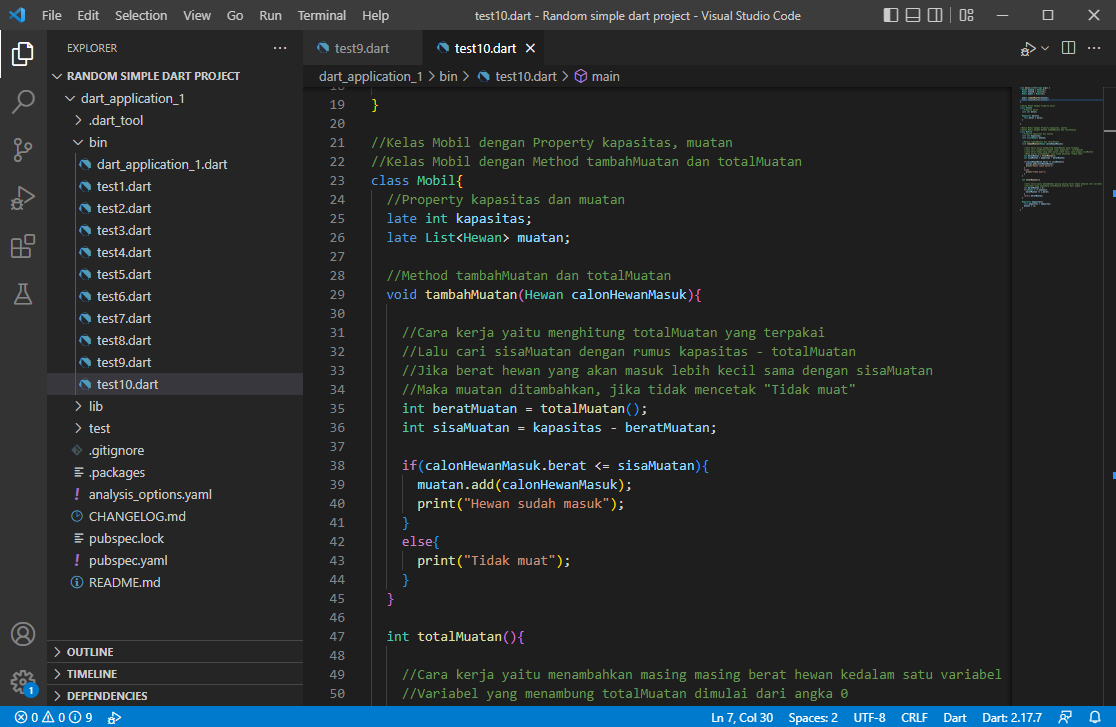
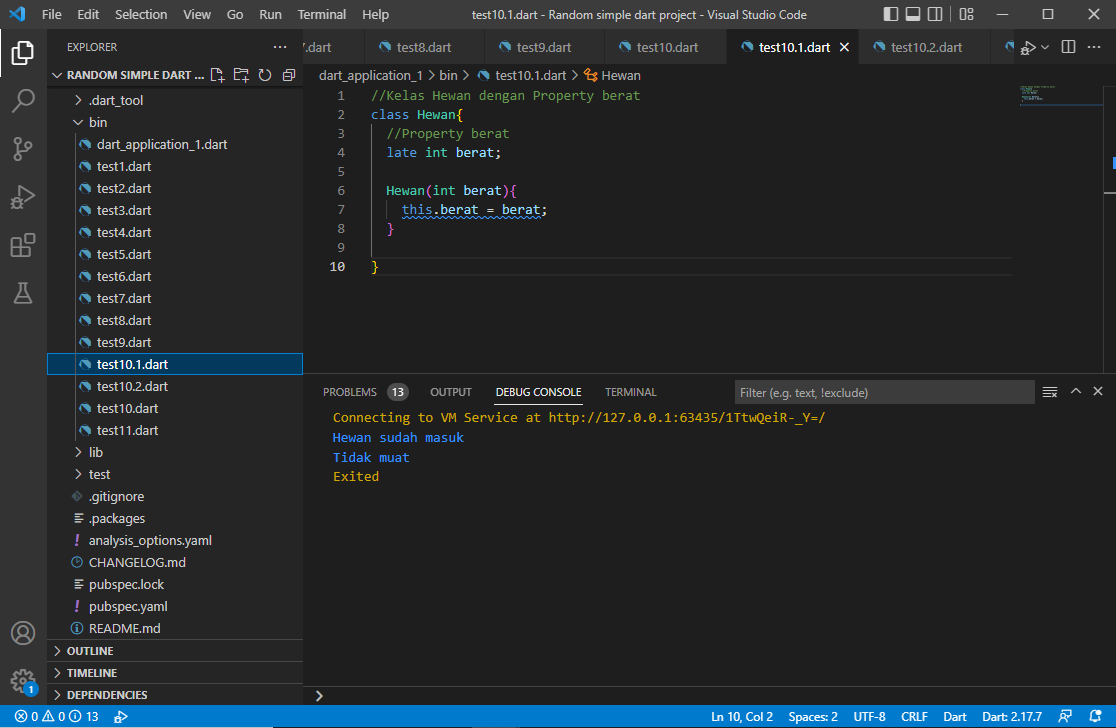
memperbaiki tugas bab Dart Object Oriented Programming 1

diff --git a/9_Dart Object Oriented Programming 1/praktikum/test10.2.dart b/9_Dart Object Oriented Programming 1/praktikum/test10.2.dart
@@ -1,25 +1,7 @@
-void main(List<String> args) {
-  Hewan hewanA = Hewan(3);
-  Hewan hewanB = Hewan(2);
-  Mobil mobil = Mobil(4);
-
-  mobil.tambahMuatan(hewanA);
-  mobil.tambahMuatan(hewanB);
-}
-
-//Kelas Hewan dengan Property berat
-class Hewan{
-  //Property berat
-  late int berat;
-  
-  Hewan(int berat){
-    this.berat = berat;
-  }
-  
-}
-
 //Kelas Mobil dengan Property kapasitas, muatan
 //Kelas Mobil dengan Method tambahMuatan dan totalMuatan
+import 'test10.1.dart';
+
 class Mobil{
   //Property kapasitas dan muatan
   late int kapasitas;

diff --git a/9_Dart Object Oriented Programming 1/praktikum/test10.dart b/9_Dart Object Oriented Programming 1/praktikum/test10.dart
@@ -1,0 +1,11 @@
+import 'test10.1.dart';
+import 'test10.2.dart';
+
+void main(List<String> args) {
+  Hewan hewanA = Hewan(3);
+  Hewan hewanB = Hewan(2);
+  Mobil mobil = Mobil(4);
+
+  mobil.tambahMuatan(hewanA);
+  mobil.tambahMuatan(hewanB);
+}

diff --git a/9_Dart Object Oriented Programming 1/praktikum/test10.1.dart b/9_Dart Object Oriented Programming 1/praktikum/test10.1.dart
@@ -1,0 +1,10 @@
+//Kelas Hewan dengan Property berat
+class Hewan{
+  //Property berat
+  late int berat;
+  
+  Hewan(int berat){
+    this.berat = berat;
+  }
+  
+}
